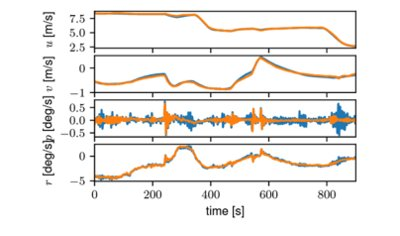
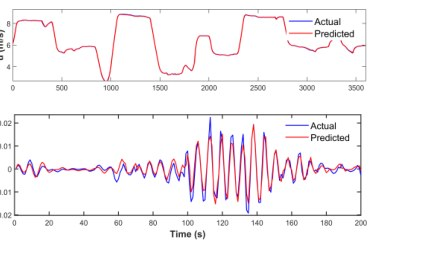
site: name as muslim a. alaran; better thumbnails for the ras, ifac, digital health, m2vip and ssd papers

Changed region(s): [[0.0, 0.0297, 0.9, 0.9492], [0.12, 0.7712, 0.15, 0.8008]]

diff --git a/index.html b/index.html
@@ -3,12 +3,12 @@
 <head>
   <meta charset="UTF-8" />
   <meta name="viewport" content="width=device-width, initial-scale=1.0" />
-  <title>Alaran Muslim Adedamola</title>
+  <title>Muslim A. Alaran</title>
   <meta name="description" content="PhD student in robot learning at Montanuniversität Leoben, working on skill learning for humanoid robots." />
   <meta name="author" content="Muslim A. Alaran" />
   <link rel="canonical" href="https://muslim-adedamola.github.io/" />
   <meta property="og:type" content="profile" />
-  <meta property="og:title" content="Alaran Muslim Adedamola" />
+  <meta property="og:title" content="Muslim A. Alaran" />
   <meta property="og:description" content="PhD student in robot learning at Montanuniversität Leoben, working on skill learning for humanoid robots." />
   <meta property="og:url" content="https://muslim-adedamola.github.io/" />
   <meta property="og:image" content="https://muslim-adedamola.github.io/photo.jpg" />
@@ -269,7 +269,7 @@
   <!-- HERO -->
   <header class="hero">
     <div>
-      <h1 class="hero-name">Alaran Muslim<br>Adedamola</h1>
+      <h1 class="hero-name">Muslim A. Alaran</h1>
       <p class="hero-title">PhD Student · Robot Learning · Montanuniversität Leoben, Austria</p>
       <p class="hero-bio">
         I am a PhD student and doctoral researcher at the <em>Chair of Cyber-Physical Systems</em> at Montanuniversität Leoben,
@@ -357,7 +357,7 @@
     <div class="pub-list">
 
       <div class="pub">
-        <div class="thumb"><div class="thumb-text">Robotics and<br>Autonomous Systems</div></div>
+        <div class="thumb cover"><img src="assets/pubs/ras.jpg" alt="Hand grasping a ball under four video augmentations" loading="lazy" /></div>
         <div>
           <p class="pub-title"><a href="https://doi.org/10.1016/j.robot.2026.105518" target="_blank" rel="noopener">A Time and Object Aware Transformer-Based Method for Structured Hierarchical Gesture Recognition</a></p>
           <p class="pub-authors">A. Papanikolaou, V. Sivtsov, <strong>M. Alaran</strong>, D. Shkolnik, E. Zereik, I. Markovic, I. Petrovic, F. Bonsignorio</p>
@@ -367,7 +367,7 @@
       </div>
 
       <div class="pub">
-        <div class="thumb"><img src="assets/pubs/safv.jpg" alt="Diagram of spatially aware value fusion over decomposed value heads" loading="lazy" /></div>
+        <div class="thumb cover"><img src="assets/pubs/safv.jpg" alt="Kinova Gen3 with a Robotiq gripper and its wrist-camera views of the sphere" loading="lazy" /></div>
         <div>
           <p class="pub-title">Spatially Aware Value Fusion in Decomposed Reward Architectures for Marine Manipulation</p>
           <p class="pub-authors">V. Sivtsov, <strong>M. Alaran</strong>, D. Shkolnik, A. Papanikolaou, I. Markovic, E. Zereik, I. Petrovic, F. Bonsignorio</p>
@@ -387,7 +387,7 @@
       </div>
 
       <div class="pub">
-        <div class="thumb"><div class="thumb-text">Digital Health<br>Commentary</div></div>
+        <div class="thumb"><img src="assets/pubs/aihealth.svg" alt="Illustration of AI in healthcare" loading="lazy" /></div>
         <div>
           <p class="pub-title"><a href="https://doi.org/10.1177/20552076241305915" target="_blank" rel="noopener">Challenges and Opportunities of Artificial Intelligence in African Health Space</a></p>
           <p class="pub-authors"><strong>M. A. Alaran</strong>, S. K. Lawal, M. H. Jiya, S. A. Egya, M. M. Ahmed, A. Abdulsalam, U. A. Haruna, M. K. Musa, D. E. Lucero-Prisno III</p>
@@ -397,7 +397,7 @@
       </div>
 
       <div class="pub">
-        <div class="thumb"><img src="assets/pubs/apo.jpg" alt="Ship motion response plots" loading="lazy" /></div>
+        <div class="thumb"><img src="assets/pubs/apo.jpg" alt="Actual and predicted ship surge speed and roll rate" loading="lazy" /></div>
         <div>
           <p class="pub-title"><a href="https://doi.org/10.1109/SSD64182.2025.10989967" target="_blank" rel="noopener">APO-Optimized ARX-Based System Identification of a Ship Maneuvering System</a></p>
           <p class="pub-authors">F. Olanrewaju, M. Shafiullah, M. Al-Dhaifallah, <strong>M. Alaran</strong></p>
@@ -417,7 +417,7 @@
       </div>
 
       <div class="pub">
-        <div class="thumb"><img src="assets/pubs/cloud.jpg" alt="3D model of the autonomous ground robot" loading="lazy" /></div>
+        <div class="thumb cover"><img src="assets/pubs/cloud.jpg" alt="Planned path on the lab map, with the robot's 3D model" loading="lazy" /></div>
         <div>
           <p class="pub-title"><a href="https://doi.org/10.1109/M2VIP62491.2024.10746213" target="_blank" rel="noopener">Cloud-Integrated Navigation System for Scalable Autonomous Ground Robots</a></p>
           <p class="pub-authors">U. Sharipov, S. Kasenov, <strong>M. Alaran</strong>, A. Askhatova, Y. Orynbay, P. Jamwal</p>
